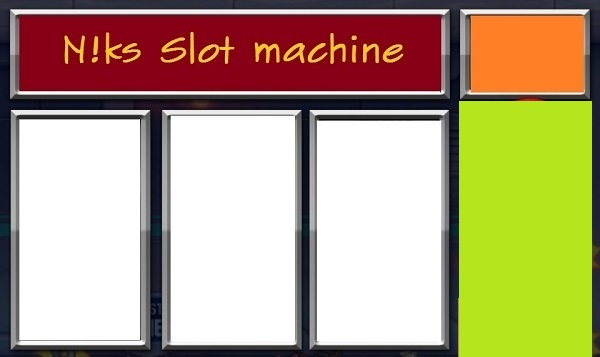
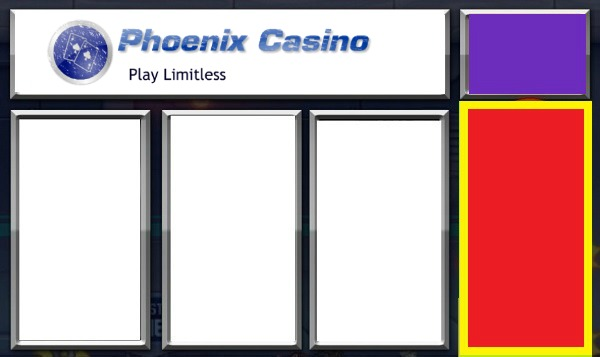
almost done working version

diff --git a/assignment2/css/main.css b/assignment2/css/main.css
@@ -1,13 +1,15 @@
 
 #header h1 {
-	background: url(../img/logo.png) no-repeat;
-	width: 95px;
-	height: 95px;	
-	margin: 0;
-	
-	}	
+    background-image: url('../img/logo.png') no-repeat;
+    width: 95px;
+    height: 95px;
+    margin: 0;
+}	
 
 ul#playerStats {
+    margin-right:500px;
+    margin-left:500px;
+    background-color:red;
     list-style-type: none;
     padding: 0;
     margin: 5px;
@@ -15,7 +17,7 @@ ul#playerStats {
 
 #playerBet
 {
- padding-left: 0px;
+    padding-left: 0px;
 	position: absolute;
 	margin-left: 15px;
 	margin-top: 2px;
@@ -33,7 +35,7 @@ ul#playerStats {
 
 #BetButton
 {
-	margin:80px;
+ 	margin:80px;
 	padding:20px; 
 	
   
@@ -41,18 +43,21 @@ ul#playerStats {
 
 
 #result{
-    margin-bottom : 600px;
+     margin-bottom : 600px;
     margin-left: 20px;
 }
 
 #winOrLose p
 {
+    margin-right:500px;
+    margin-left:500px;
+    background-color:gold;
     margin-top : -350px;
 }
 
 .inner #img2,#img3
 {
-    padding-left: 50px;
+     padding-left: 50px;
 }
 
 .inner #image2
@@ -67,7 +72,7 @@ ul#playerStats {
 
 #betEntry
 {
-	padding-left: 0px;
+ 	padding-left: 0px;
 	position: absolute;
 	margin-left: 475px;
 	margin-top: 10px;
@@ -88,6 +93,13 @@ ul#playerStats {
 	margin-left: 660px;
 	position: absolute;
 }
-
+body {
+    background-image: url('../img/bg1.jpg');
+}
+#banner{
+    margin-right:500px;
+    margin-left:500px;
+    background-color:darkslateblue;
+}
 
 

diff --git a/assignment2/index.html b/assignment2/index.html
@@ -1,6 +1,6 @@
 <!--
 File Name: index.html
-Developer: Krunalsinhé200270462
+Developer: Krunalsinh/200270462
 Project name : Slot Machine
 File Description: This is home page of website
 -->
@@ -12,12 +12,15 @@ File Description: This is home page of website
     <meta http-equiv="content-type" content="text/html; charset=utf-8" />
     <!-- CSS Section -->
     <link href="css/main.css" rel="stylesheet" />
+    <link href="css/normalize.css" rel="stylesheet" />
 </head>
 <body>
+    <div id="header">
+        <img src="img/logo.png" alt="" />
+    </div>
     <div>
-
-        <h1>Slot Machine</h1>
-        <div>
+        <div id="banner">
+            <h1>Slot Machine</h1>
             <h2>Player Statistics</h2>
             <ul id="playerStats">
                 <li id="jackpot">Jackpot: 500</li>
@@ -48,9 +51,7 @@ File Description: This is home page of website
             <!-- <h2>Spin Result</h2> -->
             <p class="inner">
                 <img src="img\Seven.png" />
-
                 <img src="img\Seven.png" id="img2" />
-
                 <img src="img\Seven.png" id="img3" />
             </p>
         </div>
